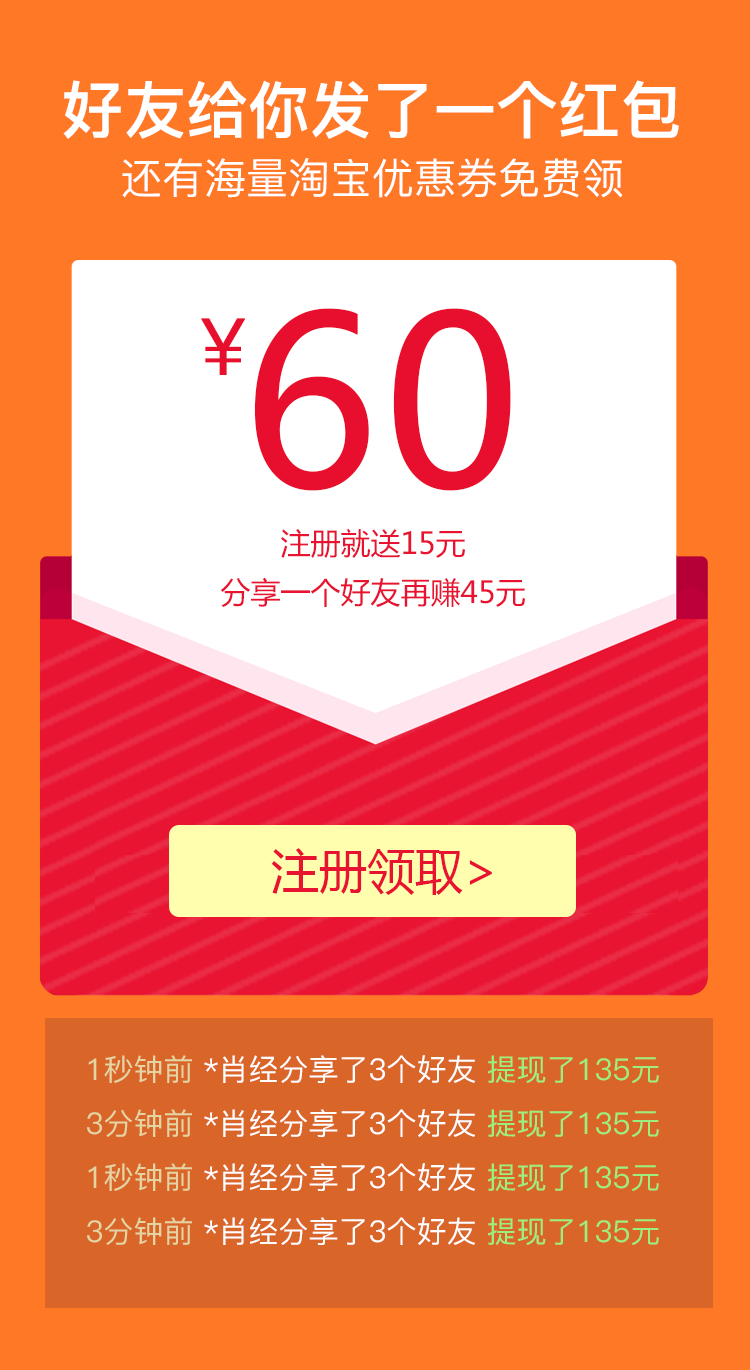
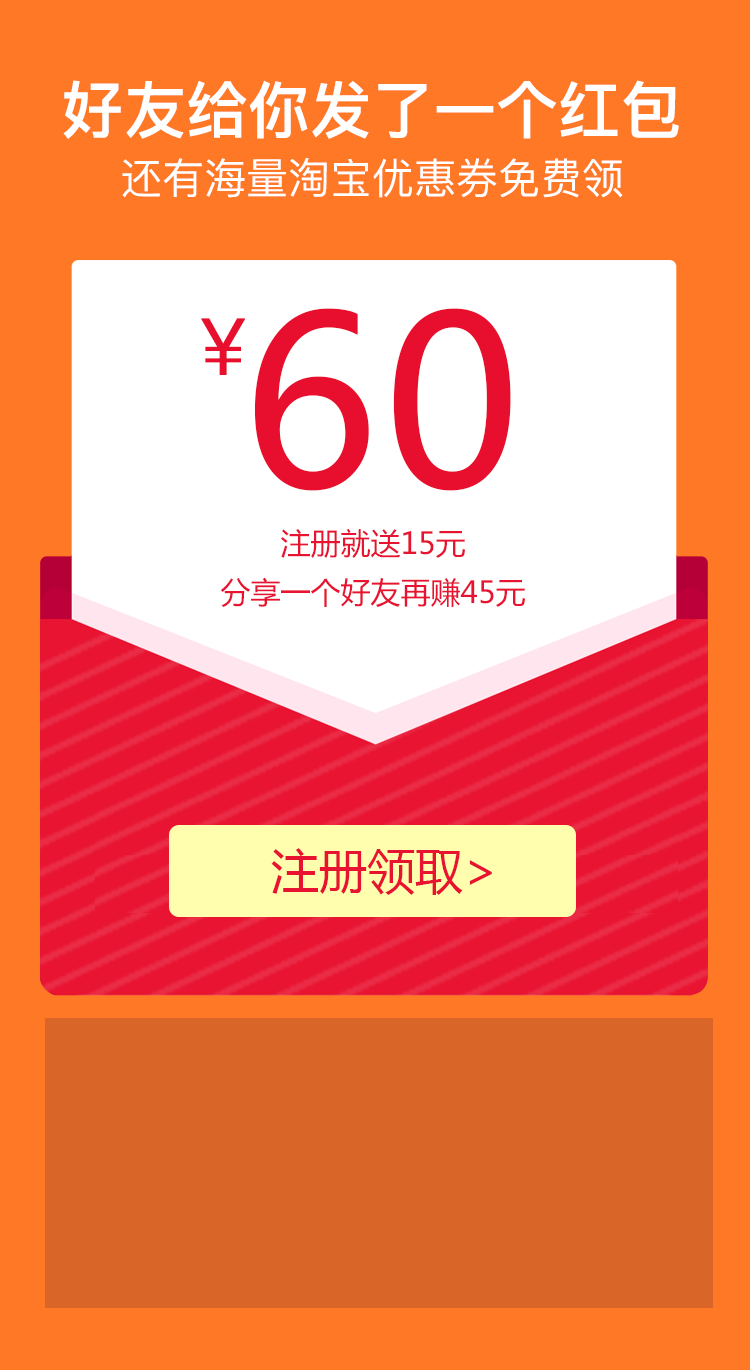
update share

Changed region(s): [[0.1227, 0.7664, 0.8893, 0.9197]]

diff --git a/resources/views/staradmin/client/angpao.blade.php b/resources/views/staradmin/client/angpao.blade.php
@@ -23,8 +23,6 @@
 
 @section('content')
 
-<!-- <div class="full-height"> -->
-
 	<div class="angpao_container">
 	
 		<!-- <div class="panel-step1">
@@ -33,16 +31,6 @@
         <div class="panel-step2"></div>
         <a href="/arcade"><div class="panel-step2-btn"></div></a>
     -->
-    </div><!-- panel-group -->
-    
-    
-<!-- </div> -->
-<!-- container -->
+    </div>
 
-
-<!-- <a href='{{str_replace('vregister','vvregister', \Request::url())}}'>
-    	<div id="weixinTips2" style="background:rgba(255, 255, 255,1);width:100%;height:100%;position:fixed;left:0;top:0;z-index:9999">
-    		<div id="weixinTipsImg" style="background:url('/vwechat/images/share.png') top center no-repeat;background-size:100%;width:100%;height:100%"></div>
-    	</div>
-    </a> -->
 @endsection
